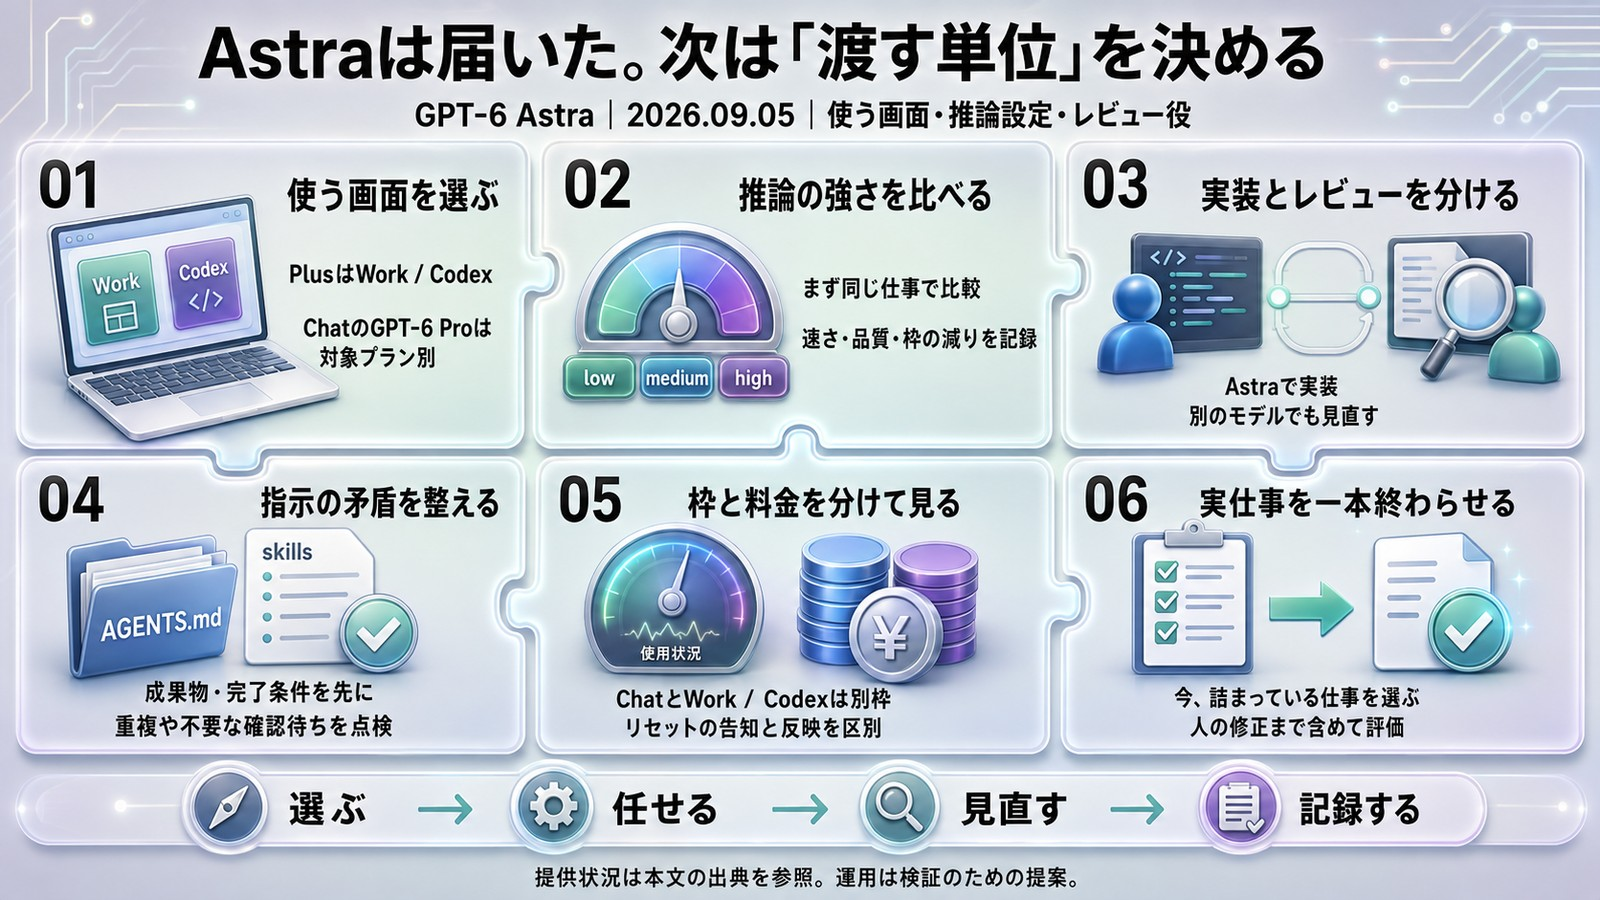
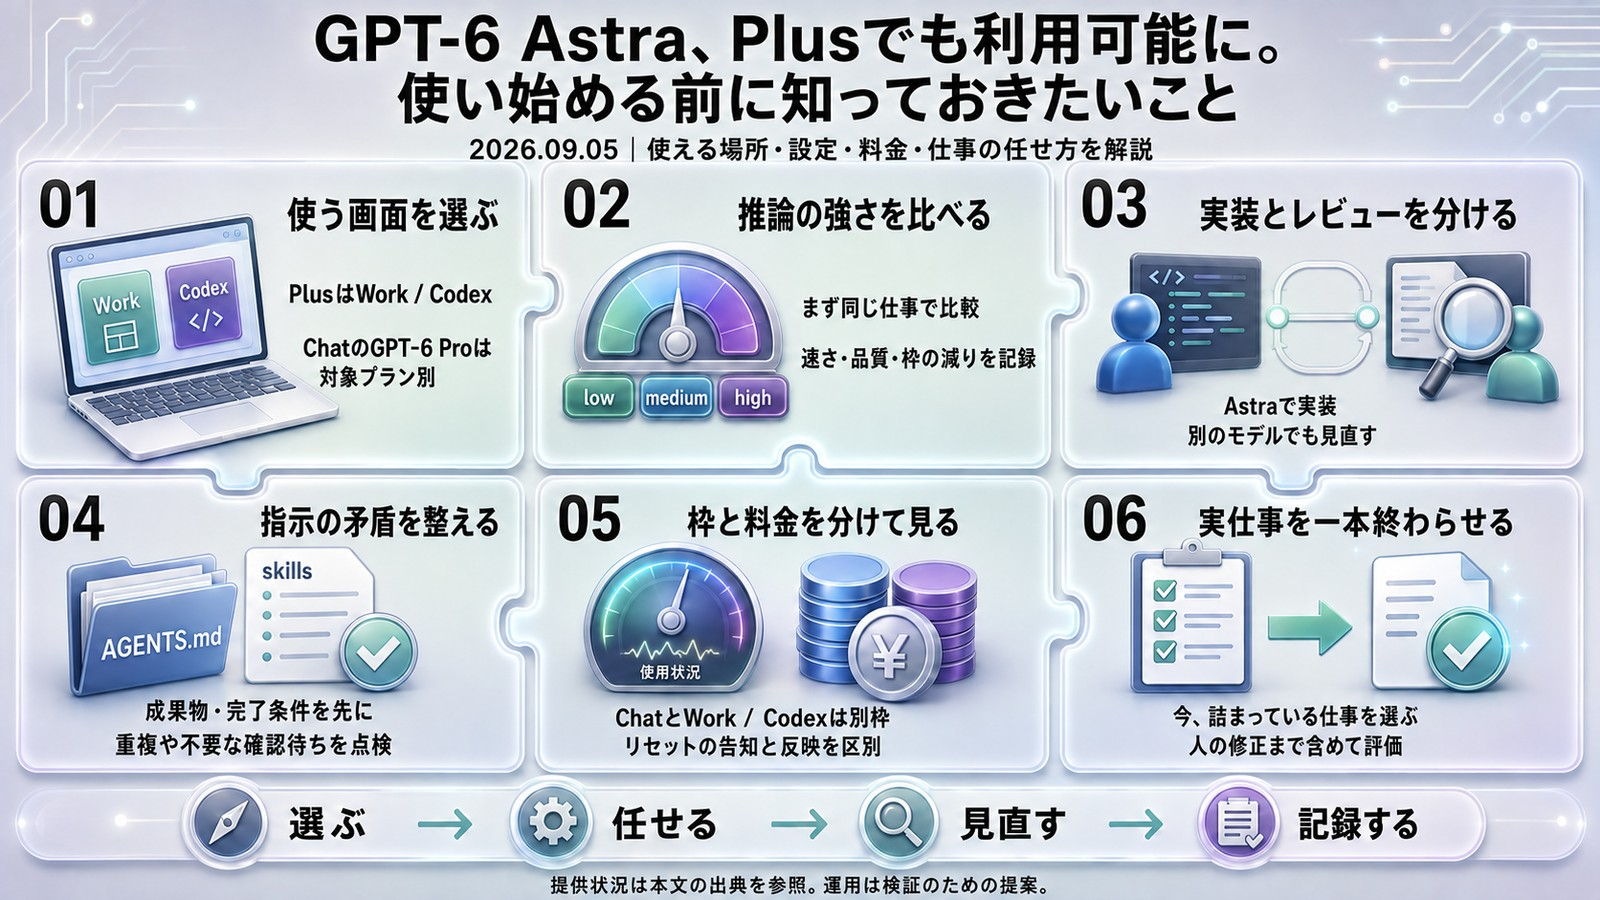
fix(day-slide): retitle No.401 Plus availability + refresh cover
Replace 09/05 HTML/cover. Title: GPT-6 Astra、Plusでも利用可能に。使い始める前に知っておきたいこと. Sync list/home/index/llms.

diff --git a/presentations/day_slides/day_slide_2026_09_05.html b/presentations/day_slides/day_slide_2026_09_05.html
@@ -1,15 +1,15 @@
 <!doctype html>
 <html lang="ja"><head>
   <meta charset="utf-8"><meta name="viewport" content="width=device-width, initial-scale=1">
-  <title>Astraは届いた。次は「渡す単位」を決める | 2026-09-05</title>
+  <title>GPT-6 Astra、Plusでも利用可能に。使い始める前に知っておきたいこと | 2026-09-05</title>
   <meta name="description" content="2026年9月5日版。Plus・BusinessへのWork／Codex展開宣言から、画面選び、推論設定、指示の見直し、モデル分担、利用枠、独立評価、最初の実仕事まで。X原投稿と公式資料を照合。"><link rel="icon" href="data:,">
   <link rel="canonical" href="https://visionhub.jp/presentations/day_slides/day_slide_2026_09_05.html">
   <meta property="og:type" content="article"><meta property="og:site_name" content="AI Intelligence Hub">
-  <meta property="og:title" content="Astraは届いた。次は「渡す単位」を決める"><meta property="og:description" content="2026年9月5日版。Plus・BusinessへのWork／Codex展開宣言から、画面選び、推論設定、指示の見直し、モデル分担、利用枠、独立評価、最初の実仕事まで。X原投稿と公式資料を照合。"><meta property="og:url" content="https://visionhub.jp/presentations/day_slides/day_slide_2026_09_05.html">
+  <meta property="og:title" content="GPT-6 Astra、Plusでも利用可能に。使い始める前に知っておきたいこと"><meta property="og:description" content="2026年9月5日版。Plus・BusinessへのWork／Codex展開宣言から、画面選び、推論設定、指示の見直し、モデル分担、利用枠、独立評価、最初の実仕事まで。X原投稿と公式資料を照合。"><meta property="og:url" content="https://visionhub.jp/presentations/day_slides/day_slide_2026_09_05.html">
   <meta property="og:image" content="https://visionhub.jp/presentations/day_slides/images/0905/cover.jpg">
-  <meta name="twitter:card" content="summary_large_image"><meta name="twitter:title" content="Astraは届いた。次は「渡す単位」を決める"><meta name="twitter:description" content="2026年9月5日版。Plus・BusinessへのWork／Codex展開宣言から、画面選び、推論設定、指示の見直し、モデル分担、利用枠、独立評価、最初の実仕事まで。X原投稿と公式資料を照合。">
+  <meta name="twitter:card" content="summary_large_image"><meta name="twitter:title" content="GPT-6 Astra、Plusでも利用可能に。使い始める前に知っておきたいこと"><meta name="twitter:description" content="2026年9月5日版。Plus・BusinessへのWork／Codex展開宣言から、画面選び、推論設定、指示の見直し、モデル分担、利用枠、独立評価、最初の実仕事まで。X原投稿と公式資料を照合。">
   <meta name="twitter:image" content="https://visionhub.jp/presentations/day_slides/images/0905/cover.jpg">
-  <script type="application/ld+json">{"@context": "https://schema.org", "@type": "PresentationDigitalDocument", "headline": "Astraは届いた。次は「渡す単位」を決める", "description": "2026年9月5日版。Plus・BusinessへのWork／Codex展開宣言から、画面選び、推論設定、指示の見直し、モデル分担、利用枠、独立評価、最初の実仕事まで。X原投稿と公式資料を照合。", "datePublished": "2026-09-05", "dateModified": "2026-09-05T10:15:22+09:00", "inLanguage": "ja", "mainEntityOfPage": "https://visionhub.jp/presentations/day_slides/day_slide_2026_09_05.html", "image": "https://visionhub.jp/presentations/day_slides/images/0905/cover.jpg"}</script>
+  <script type="application/ld+json">{"@context": "https://schema.org", "@type": "PresentationDigitalDocument", "headline": "GPT-6 Astra、Plusでも利用可能に。使い始める前に知っておきたいこと", "description": "2026年9月5日版。Plus・BusinessへのWork／Codex展開宣言から、画面選び、推論設定、指示の見直し、モデル分担、利用枠、独立評価、最初の実仕事まで。X原投稿と公式資料を照合。", "datePublished": "2026-09-05", "dateModified": "2026-09-05T10:41:50+09:00", "inLanguage": "ja", "mainEntityOfPage": "https://visionhub.jp/presentations/day_slides/day_slide_2026_09_05.html", "image": "https://visionhub.jp/presentations/day_slides/images/0905/cover.jpg"}</script>
   <style>
     :root {
       --bg:#04090c; --panel:#081418; --panel2:rgba(9,25,30,.72);
@@ -240,7 +240,7 @@
   <header class="hero"><div class="hero-inner">
     <nav class="topbar" aria-label="パンくず"><a href="../day_slides_index.html">全日スライド</a><span>2026-09-05 / No.401 / モデル・続報</span></nav>
     <div class="hero-body"><span class="kicker">今日の深掘り — リリース後の続報</span><p class="eyebrow">OPENAI × GPT-6 ASTRA / DAY 2</p>
-      <h1>Astraは届いた。<br>次は「渡す単位」を決める<span class="hero-subtitle">使う画面、推論の強さ、レビュー役を選び、<br class="desktop-break">実仕事を一本終わらせる。</span></h1>
+      <h1>GPT-6 Astra、Plusでも利用可能に。<br>使い始める前に知っておきたいこと<span class="hero-subtitle">使える場所・設定・料金・仕事の任せ方を解説</span></h1>
       <p class="lead">9/5朝、Plus・BusinessへのWork／Codex展開をOpenAIの担当者とCEOが宣言。次に決めるのは、<strong>どの画面で、どこまでの仕事を任せ、どう確かめるか</strong>。Xの原投稿と公式資料を照合し、使い始めるための9章に組み直した。</p>
       <div class="hero-meta"><span>2026/9/5 朝・JST</span><span>Plus／Businessの展開続報</span><span>X原投稿＋公式ガイド</span><span>体験談と仕様を区別</span></div>
     </div>

diff --git a/index.html b/index.html
@@ -1241,8 +1241,8 @@
           </div>
           <!-- fallback:latest-slide --><p class="hero-updated">最新データ: <span id="heroUpdatedAt">2026-09-05</span></p><!-- fallback:end -->
           <p class="hero-kicker">今日のAIを5分で</p>
-          <!-- fallback:latest-slide --><h1 id="heroTwist" class="hero-title">Astraは届いた。次は「渡す単位」を決める</h1><!-- fallback:end -->
-          <!-- fallback:latest-slide --><p id="heroWhy" class="hero-summary">9/5朝、Plus・BusinessへのWork／Codex展開をOpenAIが宣言。次は使う画面・推論の強さ・レビュー役を決め、実仕事を一本終わらせる。</p><!-- fallback:end -->
+          <!-- fallback:latest-slide --><h1 id="heroTwist" class="hero-title">GPT-6 Astra、Plusでも利用可能に。使い始める前に知っておきたいこと</h1><!-- fallback:end -->
+          <!-- fallback:latest-slide --><p id="heroWhy" class="hero-summary">PlusでもAstraが使えるようになった。使い始める前に、使える場所・設定・料金・仕事の任せ方を押さえる。</p><!-- fallback:end -->
           <div class="hero-cta">
             <!-- fallback:latest-slide --><a id="heroSlideBtn" class="btn btn-primary" href="presentations/day_slides/day_slide_2026_09_05.html"><!-- fallback:end -->
               今日のスライドを読む <span class="arr" aria-hidden="true">→</span>
@@ -1266,12 +1266,12 @@
       To set copy: python scripts/update_home_fallback.py --sitrep-update "..." --sitrep-desk "..." --sitrep-action "..."
     -->
     <!-- fallback:sitrep -->
-        <aside class="sitrep" aria-label="今日の机。更新はAstraは届いた。次は「渡す単位」を決める。判断は届いた面から渡す単位を決める。動きはWork／Codexで実仕事を一本。送信・本番前で止める。">
+        <aside class="sitrep" aria-label="今日の机。更新はGPT-6 Astra、Plusでも利用可能に。使い始める前に知っておきたいこと。判断は届いた面から渡す単位を決める。動きはWork／Codexで実仕事を一本。送信・本番前で止める。">
       <div class="container">
         <a id="sitrepLink" class="sitrep-row" href="presentations/day_slides/day_slide_2026_09_05.html">
           <span class="sitrep-kicker">5秒</span>
           <span class="sitrep-name">今日の要点</span>
-          <span class="sitrep-item"><span class="sitrep-key">更新は</span><span id="sitrepUpdate" data-sitrep="update">Astraは届いた。次は「渡す単位」を決める</span></span>
+          <span class="sitrep-item"><span class="sitrep-key">更新は</span><span id="sitrepUpdate" data-sitrep="update">GPT-6 Astra、Plusでも利用可能に。使い始める前に知っておきたいこと</span></span>
           <span class="sitrep-sep" aria-hidden="true">·</span>
           <span class="sitrep-item"><span class="sitrep-key">判断は</span><span id="sitrepDesk" data-sitrep="desk">届いた面から渡す単位を決める</span></span>
           <span class="sitrep-sep" aria-hidden="true">·</span>
@@ -2310,7 +2310,7 @@
           <a class="section-link" href="presentations/day_slides_list.html">すべてのスライドを見る <span aria-hidden="true">→</span></a>
         </div>
         <!-- fallback:this-week --><div id="weekGrid" class="week-grid">
-          <a class="week-card is-today" href="presentations/day_slides/day_slide_2026_09_05.html"><span class="today-flag">LATEST</span><span class="week-day">SEP · 金曜</span><div class="week-date">04</div><div class="week-title">Astraは届いた。次は「渡す単位」を決める</div><span class="week-go">スライドを読む →</span></a>
+          <a class="week-card is-today" href="presentations/day_slides/day_slide_2026_09_05.html"><span class="today-flag">LATEST</span><span class="week-day">SEP · 金曜</span><div class="week-date">04</div><div class="week-title">GPT-6 Astra、Plusでも利用可能に。使い始める前に知っておきたいこと</div><span class="week-go">スライドを読む →</span></a>
           <a class="week-card" href="presentations/day_slides/day_slide_2026_09_03.html"><span class="week-day">SEP · 木曜</span><div class="week-date">03</div><div class="week-title">同じ日に、安いAIが2つ出た</div><span class="week-go">スライドへ</span></a>
           <a class="week-card" href="presentations/day_slides/day_slide_2026_09_02.html"><span class="week-day">SEP · 水曜</span><div class="week-date">02</div><div class="week-title">Claude Fable 5.1 / Mythos 5.1 リリース：「新しい天才」ではなく、同じ表値で長く走れる同僚</div><span class="week-go">スライドへ</span></a>
           <a class="week-card" href="presentations/day_slides/day_slide_2026_09_01.html"><span class="week-day">SEP · 火曜</span><div class="week-date">01</div><div class="week-title">ChatGPTの稼ぎ方が変わった。広告が年率$1B規模に</div><span class="week-go">スライドへ</span></a>

diff --git a/presentations/day_slides_index.html b/presentations/day_slides_index.html
@@ -658,7 +658,7 @@
           <p class="section-sub">直近のスライドをハイライト。GPT-6 Astraが出た。最初のCriticalサイバー。でも今すぐ全員には来ない、同じ日に安いAIが2つ出た、Claude Fable 5.1 など。</p>
         </div>
         <div class="featured-grid">
-          <a <a class="feat-card" href="day_slides/day_slide_2026_09_05.html"><span class="feat-date">2026-09-05</span><h3 class="feat-title">Astraは届いた。次は「渡す単位」を決める</h3></a>
+          <a <a class="feat-card" href="day_slides/day_slide_2026_09_05.html"><span class="feat-date">2026-09-05</span><h3 class="feat-title">GPT-6 Astra、Plusでも利用可能に。使い始める前に知っておきたいこと</h3></a>
 class="feat-card" href="day_slides/day_slide_2026_09_04.html">
             <div class="feat-tag"><span class="dot"></span>LATEST</div>
             <div class="feat-date">2026/09/04</div>
@@ -831,7 +831,7 @@ class="feat-card" href="day_slides/day_slide_2026_09_04.html">
               <span class="month-count">2 件</span>
             </summary>
             <div class="slides-grid">
-              <a class="slide-card" href="day_slides/day_slide_2026_09_05.html"><span class="slide-date">09/05</span><span class="slide-title">Astraは届いた。次は「渡す単位」を決める</span></a>
+              <a class="slide-card" href="day_slides/day_slide_2026_09_05.html"><span class="slide-date">09/05</span><span class="slide-title">GPT-6 Astra、Plusでも利用可能に。使い始める前に知っておきたいこと</span></a>
 <a class="slide-card" href="day_slides/day_slide_2026_09_04.html"><span class="slide-date">09/04</span><span class="slide-title">GPT-6 Astraが出た。最初のCriticalサイバー。でも今すぐ全員には来ない</span></a>
               <a class="slide-card" href="day_slides/day_slide_2026_09_03.html"><span class="slide-date">09/03</span><span class="slide-title">同じ日に、安いAIが2つ出た</span></a>
               <a class="slide-card" href="day_slides/day_slide_2026_09_02.html"><span class="slide-date">09/02</span><span class="slide-title">Claude Fable 5.1 / Mythos 5.1 リリース：「新しい天才」ではなく、同じ表値で長く走れる同僚</span></a>
